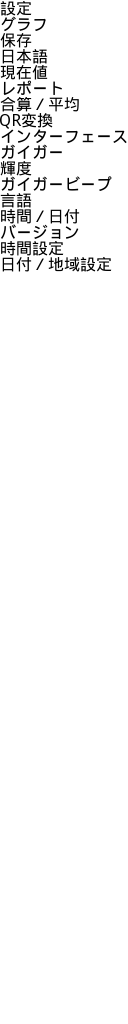
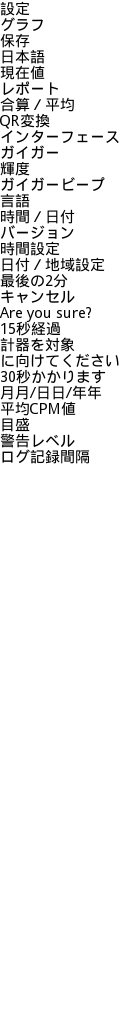
Updated Japanese translations

Changed region(s): [[0.0, 0.0, 0.9688, 0.4688], [0.9062, 0.3438, 0.9375, 0.375]]

diff --git a/firmware/gui/screen_layout.cpp b/firmware/gui/screen_layout.cpp
@@ -62,7 +62,7 @@ __FLASH__ screen screens_layout[SCREEN_COUNT] = {
   {
     { ITEM_TYPE_HEAD    , 0 , 0  , "CPMDEADINT"    , 255 }, 
     { ITEM_TYPE_GRAPH   , 4 , 110, "RECENTDATA"    , 255 },
-    { ITEM_TYPE_LABEL   ,255, 112, "Last 2 minutes", 255 }
+    { ITEM_TYPE_LABEL   ,255, 112, "Last 2 minutes", 17  }
   }
 },
 
@@ -72,8 +72,8 @@ __FLASH__ screen screens_layout[SCREEN_COUNT] = {
   {
     { ITEM_TYPE_HEAD , 0 , 0  , "CPMDEADINT"       , 255},
     { ITEM_TYPE_MENU , 6 , 3  , "       OK       " , 255},
-    { ITEM_TYPE_MENU , 3 , 4  , "     Cancel     " , 255},
-    { ITEM_TYPE_LABEL,255, 16 , "Are you sure?"    , 255}
+    { ITEM_TYPE_MENU , 3 , 4  , "     Cancel     " , 18 },
+    { ITEM_TYPE_LABEL,255, 16 , "Are you sure?"    , 19}
   }
 },
 
@@ -81,9 +81,9 @@ __FLASH__ screen screens_layout[SCREEN_COUNT] = {
 {
   4,
   {
-    { ITEM_TYPE_LABEL,255, 32, "Waiting for 15s" , 255 },
-    { ITEM_TYPE_LABEL,255, 64, "Please expose"   , 255 },
-    { ITEM_TYPE_LABEL,255, 80, "to source."      , 255 },
+    { ITEM_TYPE_LABEL,255, 32, "Waiting for 15s" , 20 },
+    { ITEM_TYPE_LABEL,255, 64, "Please expose"   , 21 },
+    { ITEM_TYPE_LABEL,255, 80, "to source."      , 22 },
     { ITEM_TYPE_DELAY, 60,100,"DELAYA\0 16,7"    , 255 } // 16 second delay, then go to screen 7
   } 
 },
@@ -92,7 +92,7 @@ __FLASH__ screen screens_layout[SCREEN_COUNT] = {
 {
   2,
   {
-    { ITEM_TYPE_LABEL,255, 32, "Acquiring, 30s" , 255 },
+    { ITEM_TYPE_LABEL,255, 32, "Acquiring, 30s" , 23 },
     { ITEM_TYPE_DELAY, 60,100,"DELAYB\0 31,8"   , 255 } // 31 second delay
   } 
 }, 
@@ -149,7 +149,7 @@ __FLASH__ screen screens_layout[SCREEN_COUNT] = {
     { ITEM_TYPE_VARNUM     , 98, 50 , "DATEYEAR1" , 255 },
     { ITEM_TYPE_VARNUM     ,118, 50 , "DATEYEAR2" , 255 },
     { ITEM_TYPE_MENU_ACTION,  0,   7, "SaveDate"  , 2 },
-    { ITEM_TYPE_LABEL      , 0 ,  20, "MM/DD/YY"  , 255 },
+    { ITEM_TYPE_LABEL      , 0 ,  20, "MM/DD/YY"  , 24 },
     { ITEM_TYPE_ACTION     ,  0,   0, "DATESCREEN", 255 }
   }
 },
@@ -193,7 +193,7 @@ __FLASH__ screen screens_layout[SCREEN_COUNT] = {
 {
   4,
   {
-    { ITEM_TYPE_LABEL      ,255,32, "Average CPM", 255},
+    { ITEM_TYPE_LABEL      ,255,32, "Average CPM", 25 },
     { ITEM_TYPE_VARLABEL   ,255,48, "TTCOUNT"    , 255},
     { ITEM_TYPE_VARLABEL   ,255,90, "TTTIME"     , 255},
     { ITEM_TYPE_ACTION     ,  2, 2, "TOTALTIMER" , 255}
@@ -217,9 +217,9 @@ __FLASH__ screen screens_layout[SCREEN_COUNT] = {
   {
     { ITEM_TYPE_HEAD       , 0, 0, "CPMDEADINT"    , 255},
     { ITEM_TYPE_MENU       ,19, 1, "Sv/Rem"        , 255},
-    { ITEM_TYPE_MENU       , 5, 2, "Calibration"   , 255},
-    { ITEM_TYPE_MENU_ACTION, 0, 3, "Clear Log"     , 255},
-    { ITEM_TYPE_MENU       ,13, 4, "Warning Levels", 255}
+    { ITEM_TYPE_MENU       , 5, 2, "Calibration"   , 26 },
+    { ITEM_TYPE_MENU_ACTION, 0, 3, "Clear Log"     , 27 },
+    { ITEM_TYPE_MENU       ,13, 4, "Warning Levels", 28 }
 //    { ITEM_TYPE_MENU,INVALID_SCREEN, 2, "Averaging Period" },
   }
 },
